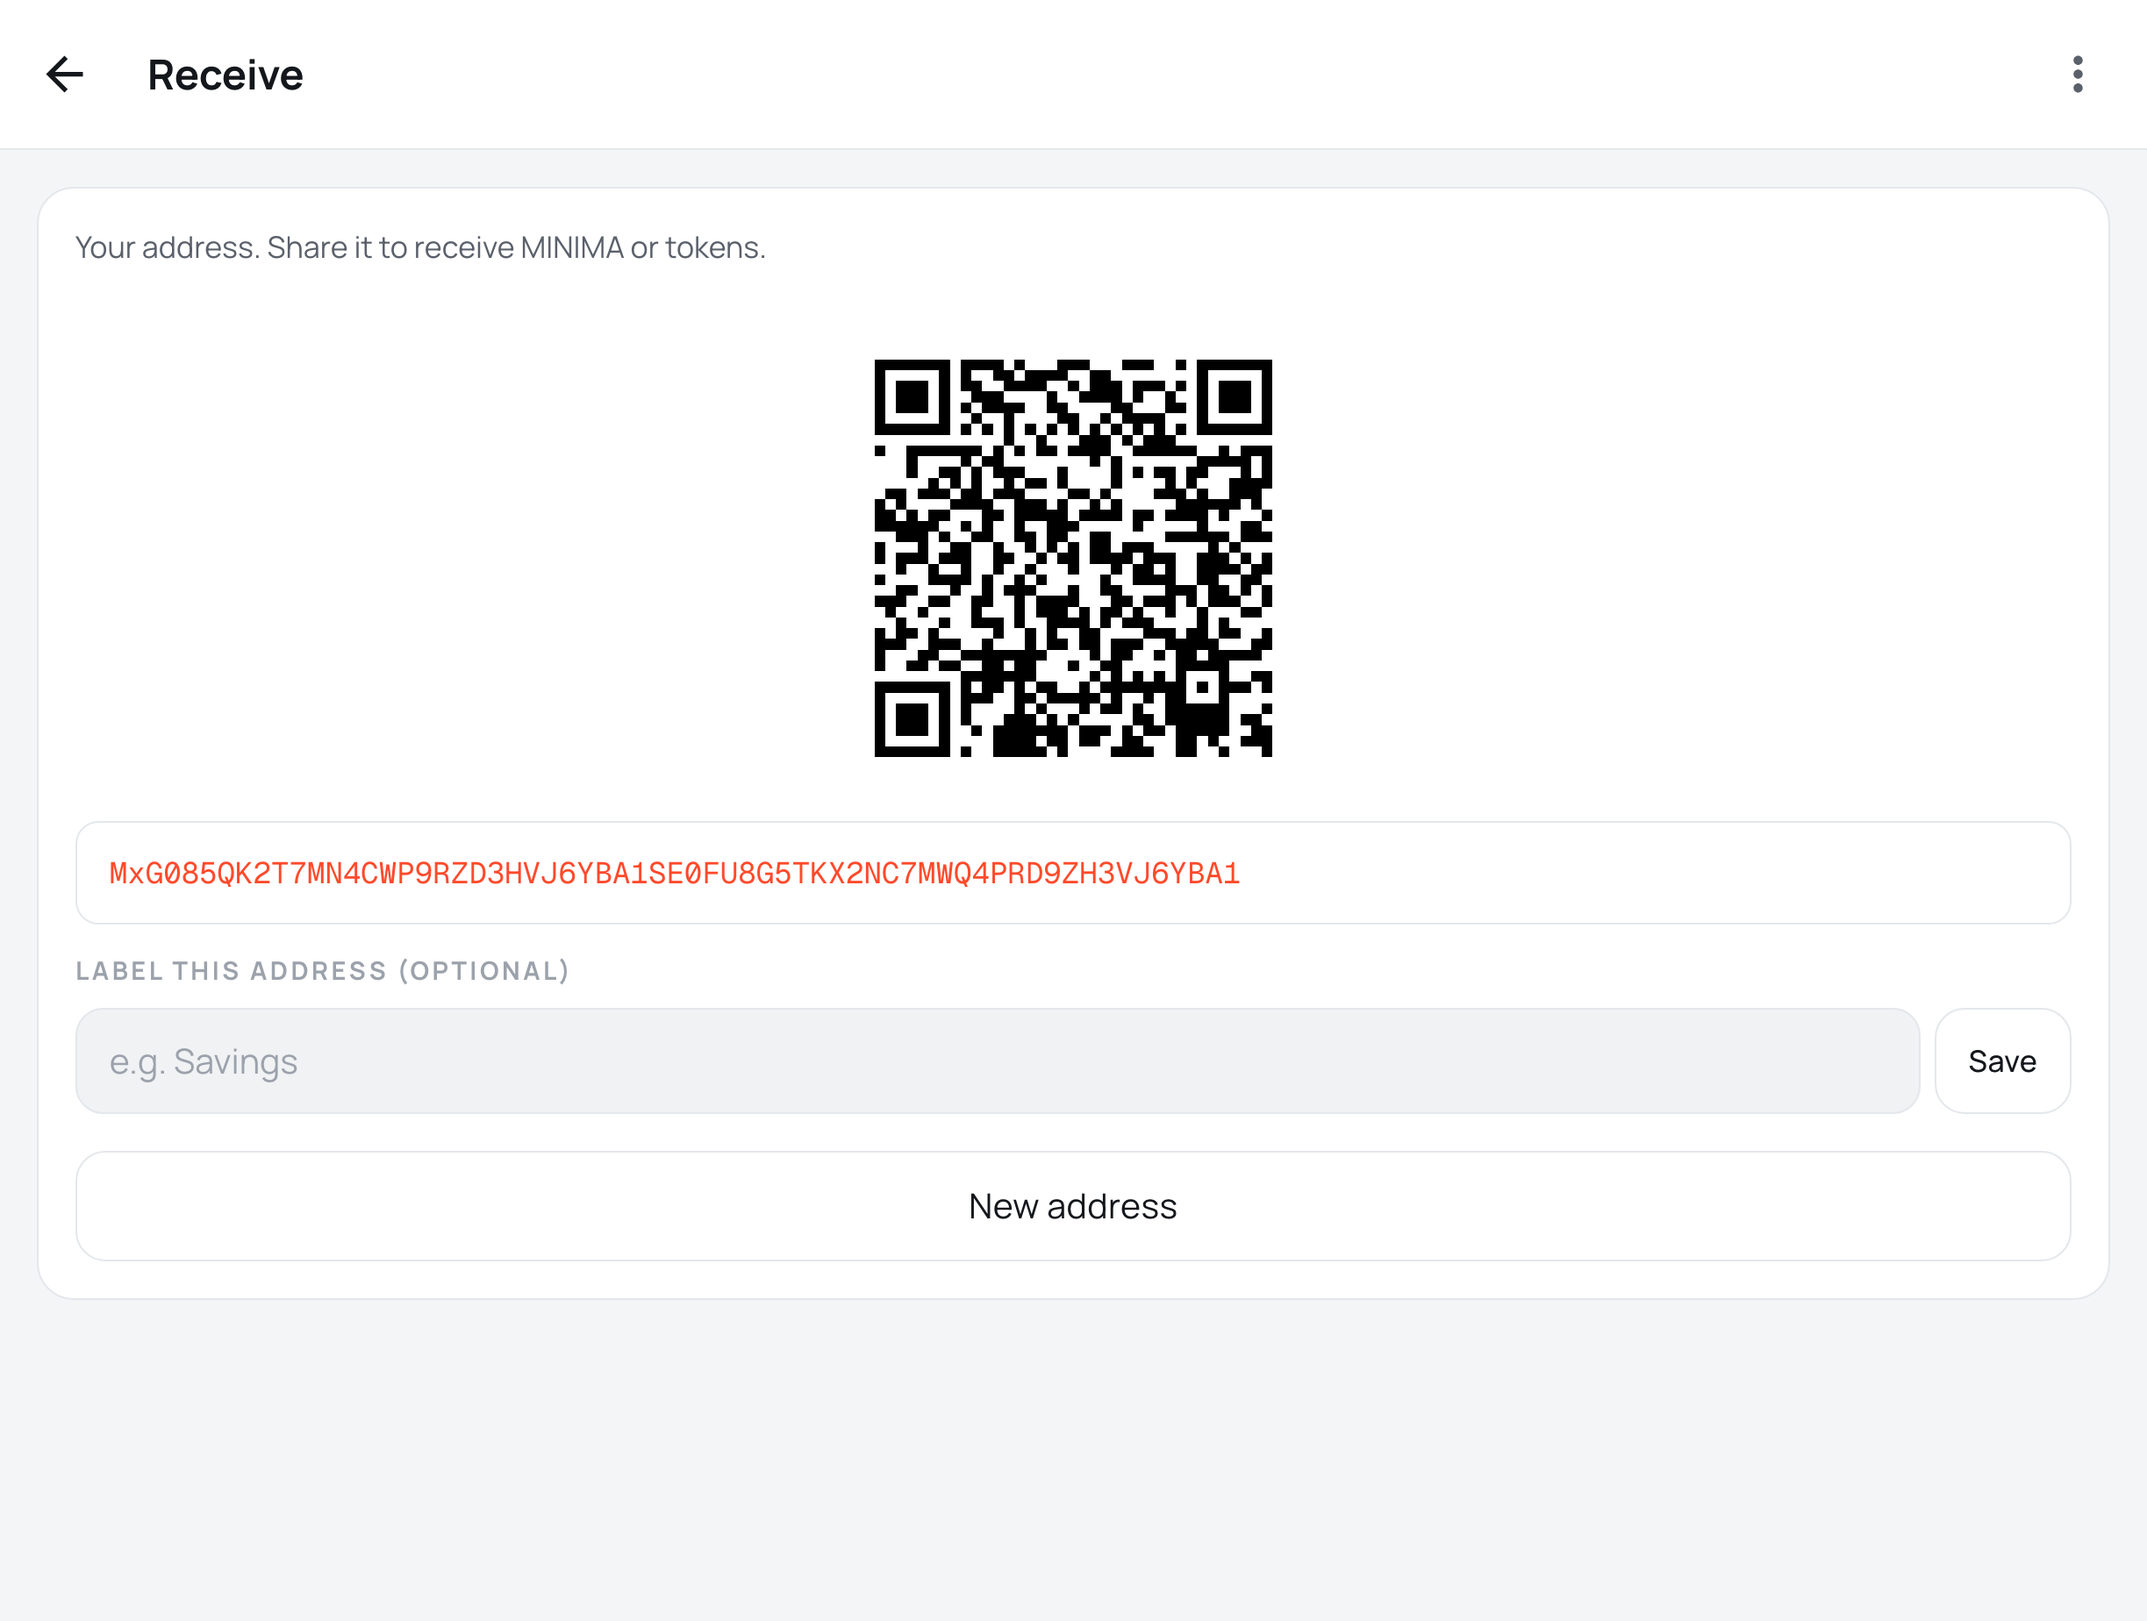
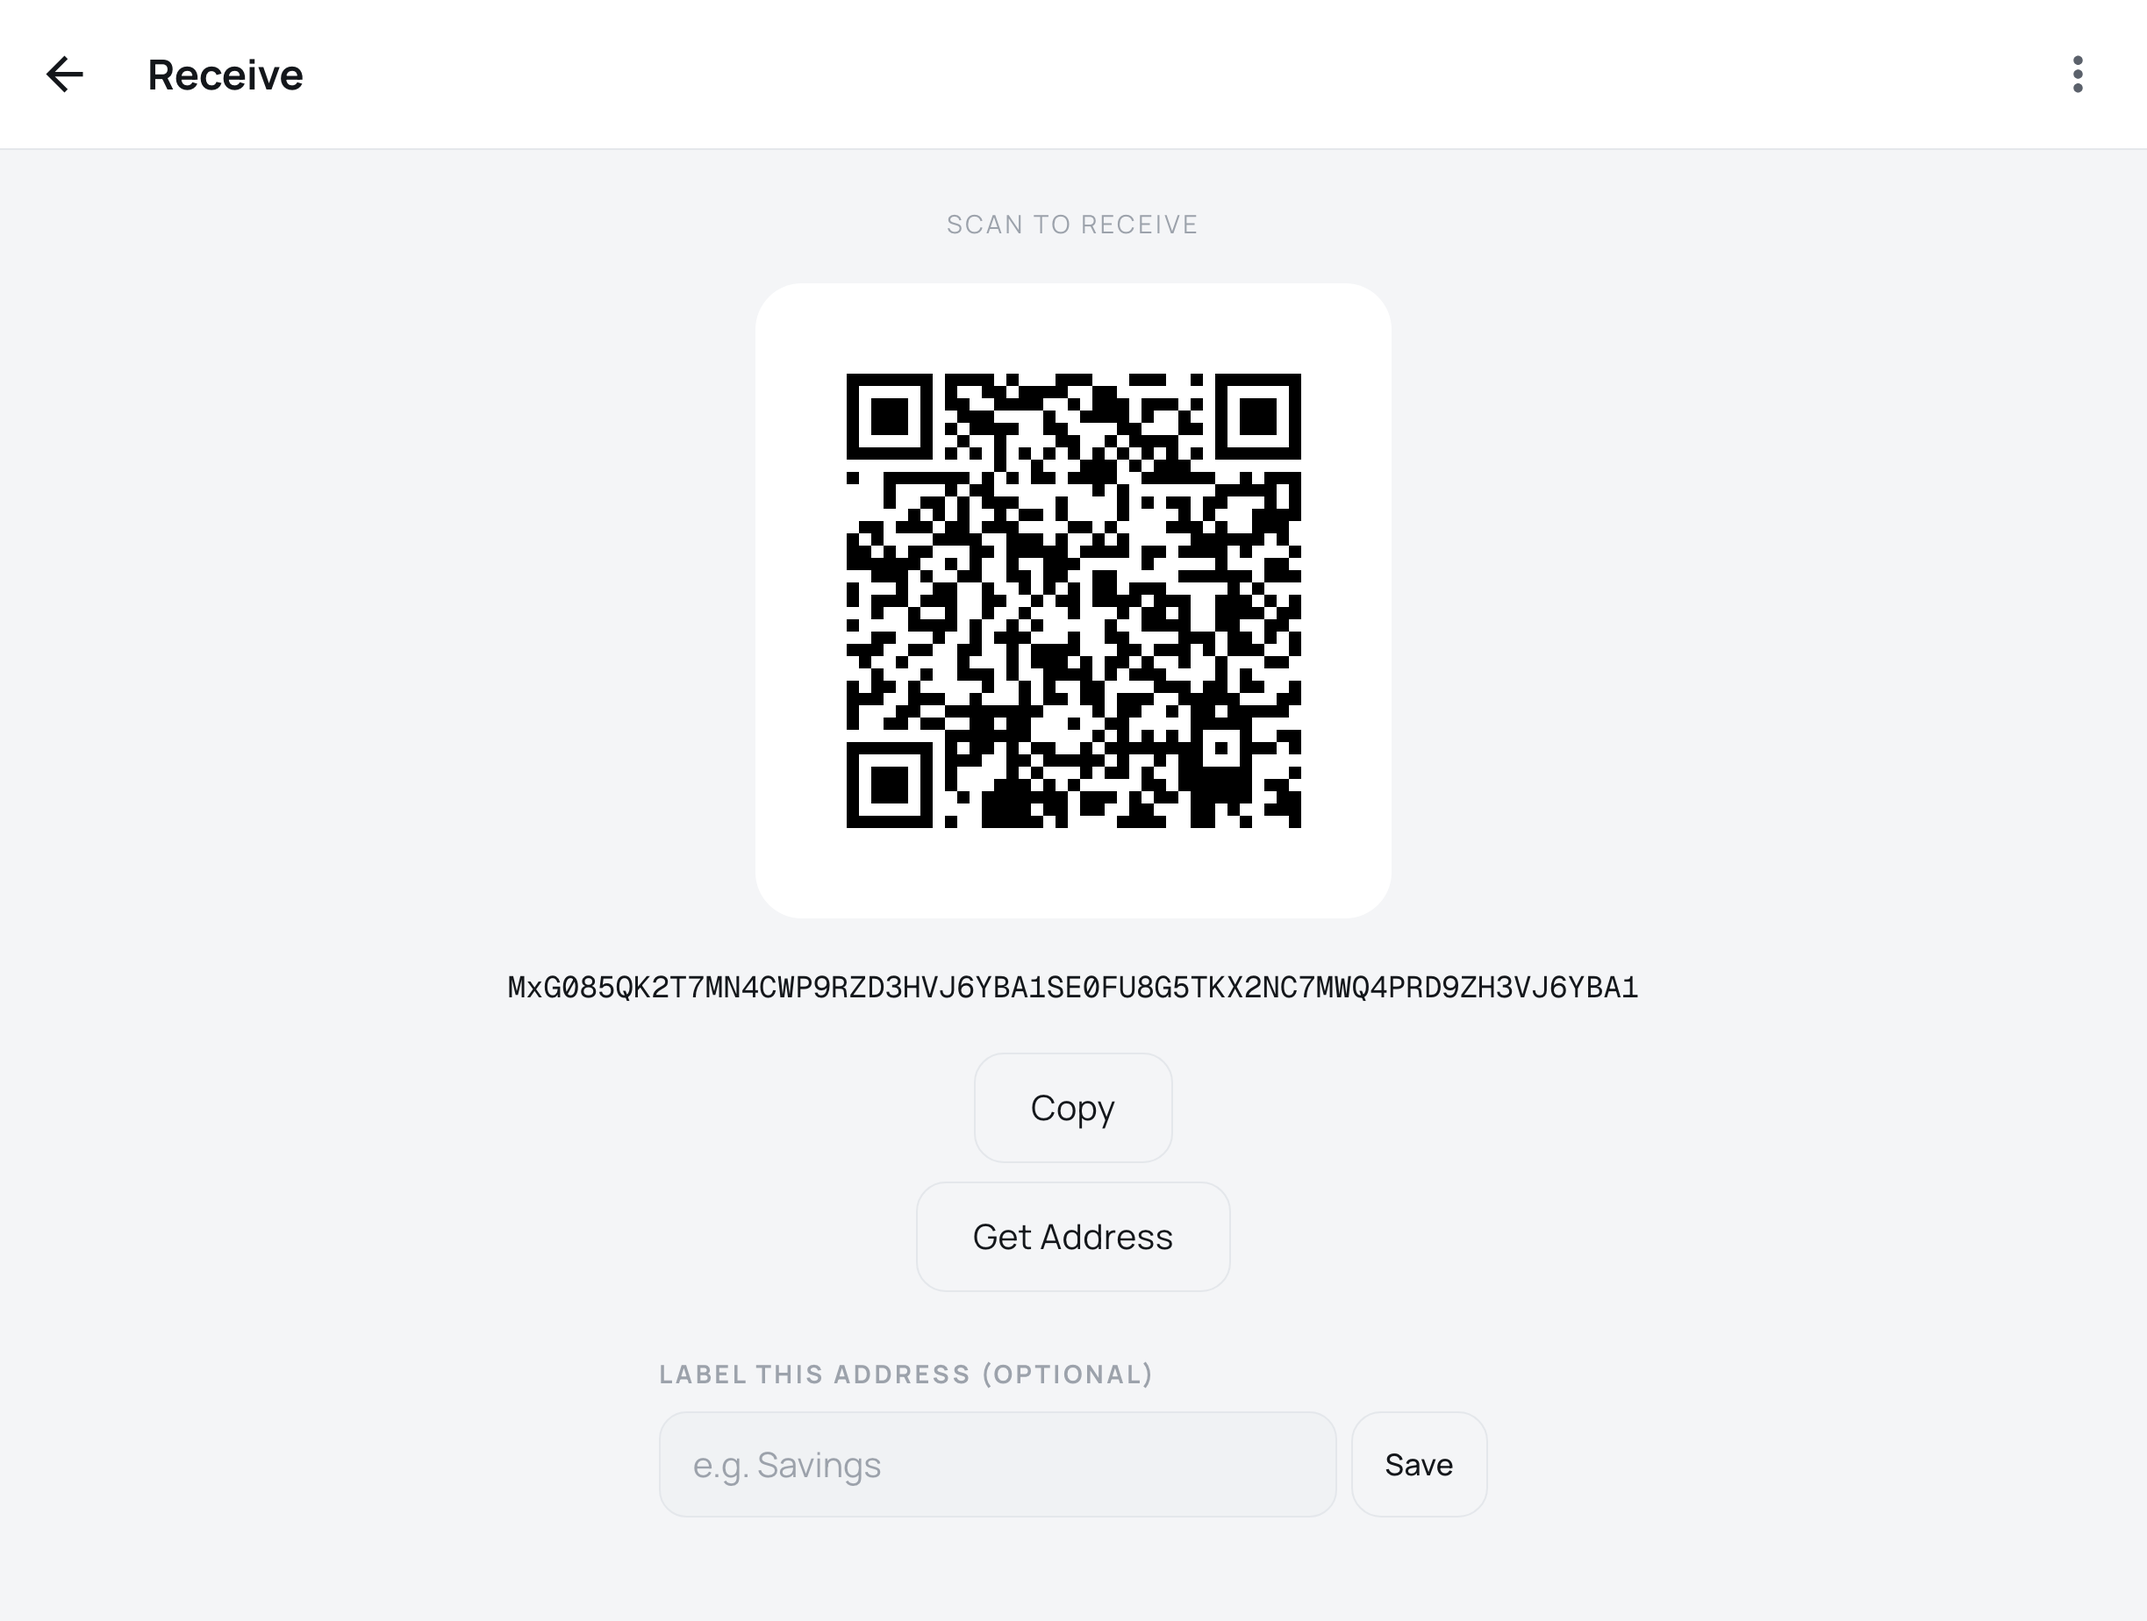
0.18.82: Receive — the phone's screen (Scan to receive, QR card, whole address, Copy, Get Address); the button runs getaddress and no longer makes the node mint a key with newaddress on every press; the label field is kept below
Claude-Session: https://claude.ai/code/session_01P3zos5bMGMNjR4T6fhfPNh

diff --git a/renderer/app.js b/renderer/app.js
@@ -680,7 +680,7 @@ const NO_FIGURE = "–";
 function resetWalletFigures() {
   el("walTotal").textContent = NO_FIGURE; WAL_MINIMA = null; paintWalBreakdown();
   el("faucetBody").innerHTML = "";
-  FOOT_KEYS = null; FOOT_KEYS_AT = 0; NODE_DASH = {}; NODE_DASH_AT = 0; BAL_BY_TID = {};
+  FOOT_KEYS = null; FOOT_KEYS_AT = 0; NODE_DASH = {}; NODE_DASH_AT = 0; BAL_BY_TID = {}; RECV_ADDR = null;
 }
 function waitHtml() { return nodeState === "stopped" ? `<div class="empty">The node is stopped.</div>` : `<div class="spin">Waiting for the node…</div>`; }
 function openMenu() { el("moreMenu").hidden = false; el("moreBtn").setAttribute("aria-expanded", "true"); const f = el("moreMenu").querySelector(".menu__item:not([hidden])"); if (f) f.focus(); }
@@ -1447,25 +1447,38 @@ function splitDialog(tok, name) {
   };
 }
 
-// ---- Receive ---------------------------------------------------------------
+// ---- Receive (Pandamonium's ReceiveView) -----------------------------------
+// "Get Address" asks the node for one of the wallet's existing default addresses (`getaddress`), as the phone
+// does. It used to run `newaddress`, which made the node create and store a new key on every press.
+let RECV_ADDR = null;        // the address on show; kept while the app runs, as the phone keeps it between visits
 async function renderReceive() {
-  const addrEl = el("recvAddr");
-  if (!running) { addrEl.textContent = "waiting for node…"; return; }
+  el("recvCopy").onclick = () => { if (RECV_ADDR) copy(RECV_ADDR); };
+  el("recvGet").onclick = getRecvAddress;
+  if (!running) {
+    RECV_ADDR = null; drawQR(""); el("recvLabelBox").innerHTML = "";
+    el("recvAddr").textContent = nodeState === "stopped" ? "The node is stopped." : "Waiting for the node…";
+    return;
+  }
+  if (RECV_ADDR) setRecv(RECV_ADDR); else await getRecvAddress();
+}
+async function getRecvAddress() {
+  const btn = el("recvGet"); btn.disabled = true;
   const r = await tryCmd("getaddress");
-  setRecv((r && (r.miniaddress || r.address)) || "unavailable");
-  el("newAddrBtn").onclick = async () => { const n = await tryCmd("newaddress"); if (n) { setRecv(n.miniaddress || n.address); toast("New address ✓", "ok"); } };
+  btn.disabled = false;
+  const addr = r && (r.miniaddress || r.address);
+  if (addr) setRecv(addr);
+  else if (RECV_ADDR) toast("The node did not give an address. The one shown is still yours.", "err");
+  else el("recvAddr").textContent = "The address could not be read. Press Get Address to try again.";
 }
 function setRecv(addr) {
-  const addrEl = el("recvAddr");
-  addrEl.textContent = addr; addrEl.onclick = () => copy(addr);
+  RECV_ADDR = addr;
+  el("recvAddr").textContent = addr;
   drawQR(addr);
   renderRecvLabel(addr);
 }
+// The desktop's own addition, under the phone's layout: a name for this address, shown in History and its exports.
 function renderRecvLabel(addr) {
-  const btn = el("newAddrBtn");
-  let box = el("recvLabelBox");
-  if (!box) { box = document.createElement("div"); box.id = "recvLabelBox"; box.style.marginTop = "10px"; btn.parentNode.insertBefore(box, btn); }
-  box.innerHTML = `<div class="field__label">Label this address (optional)</div>
+  el("recvLabelBox").innerHTML = `<label class="field__label" for="recvLabelIn">Label this address (optional)</label>
     <div class="seg"><input class="field__input" id="recvLabelIn" placeholder="e.g. Savings" value="${esc(labelFor(addr))}" />
       <button class="btn btn--outline btn--sm" id="recvLabelSave">Save</button></div>`;
   el("recvLabelSave").onclick = async () => {
@@ -1479,7 +1492,7 @@ function renderRecvLabel(addr) {
 function drawQR(text) {
   const host = el("qr"); host.innerHTML = "";
   if (!text || text.indexOf("0x") === 0 && text.length < 5 || typeof qrcode === "undefined") return;
-  try { const qr = qrcode(0, "M"); qr.addData(text); qr.make(); host.innerHTML = qr.createImgTag(5, 6); }
+  try { const qr = qrcode(0, "M"); qr.addData(text); qr.make(); host.innerHTML = qr.createImgTag(6, 24); host.querySelector("img").alt = "Receive QR code"; }
   catch (e) { /* address too long for one QR — the copyable text still works */ }
 }
 

diff --git a/renderer/app.css b/renderer/app.css
@@ -2,8 +2,6 @@
 html, body { height: 100%; }
 body { margin: 0; background: var(--bg); color: var(--text); overflow: hidden; }
 
-.qrbox { display: flex; justify-content: center; padding: 10px 0 14px; }
-.qrbox img { width: 200px; height: 200px; image-rendering: pixelated; border-radius: 8px; background: #fff; padding: 8px; }
 
 .logbox { max-height: 240px; overflow-y: auto; font-family: var(--mono); font-size: 11px;
   color: var(--dim); white-space: pre-wrap; word-break: break-all; margin: 6px 0 0; }
@@ -38,9 +36,9 @@ body { margin: 0; background: var(--bg); color: var(--text); overflow: hidden; }
 
 /* Copyable address / seed — never overflow */
 .addrbox { border-radius: 10px; }
-#recvAddr, #setAddr, #setSeed { font-family: var(--mono); font-size: 13px; color: var(--accent);
+#setAddr, #setSeed { font-family: var(--mono); font-size: 13px; color: var(--accent);
   word-break: break-all; overflow-wrap: anywhere; cursor: pointer; line-height: 1.5; }
-#recvAddr:hover, #setAddr:hover { border-color: var(--accent); }
+#setAddr:hover { border-color: var(--accent); }
 
 /* Terminal + Logs — fill the available height */
 #view-terminal.view--active, #view-logs.view--active { display: flex; flex-direction: column; height: 100%; }
@@ -173,7 +171,7 @@ label.prow input[type="checkbox"] { margin-right: 8px; vertical-align: baseline;
 
 
 /* Identifiers, hashes and node output stay monospace (the phone's MonoBlock); everything else is Manrope. */
-.tokd-id, .hist-dim, .logbox, .termout, .logsout, .addrbox__addr, #recvAddr, #setAddr, #setSeed { font-family: var(--mono); }
+.tokd-id, .hist-dim, .logbox, .termout, .logsout, .addrbox__addr, #setAddr, #setSeed { font-family: var(--mono); }
 
 /* KV rows / fields / chips / inputs — hairline + orange focus */
 .field__input { border-radius: var(--radius); }
@@ -192,7 +190,7 @@ label.prow input[type="checkbox"] { margin-right: 8px; vertical-align: baseline;
 
 
 /* Address / seed — orange mono */
-#recvAddr, #setAddr, #setSeed, .addrbox__addr { color: var(--accent); }
+#setAddr, #setSeed, .addrbox__addr { color: var(--accent); }
 
 
 /* Empty / loading — outline mark, slowly turning */

diff --git a/renderer/shell.css b/renderer/shell.css
@@ -199,6 +199,19 @@ img.tray__ic[src$="minima-mark.svg"] { background: #fff; padding: 6px; }
   font-variant-numeric: tabular-nums; overflow-wrap: anywhere; }
 #balList .bal-breakdown { margin-top: 3px; font: 400 11px/15px var(--sans); color: var(--dim2); white-space: pre-wrap; }
 
+/* ---------------------------------------------------------------- Receive (view_wallet_receive) */
+#view-receive { padding: 24px; }
+.recv { display: flex; flex-direction: column; align-items: center; }
+.recv > .eyebrow { margin-bottom: 18px; line-height: 16px; }
+.recv__qr { width: 276px; height: 276px; padding: 18px; border-radius: 20px; background: #FFFFFF; }
+.recv__qr img { display: block; width: 240px; height: 240px; image-rendering: pixelated; }
+.recv__addr { align-self: stretch; margin-top: 22px; text-align: center; font: 400 13px/1.2 var(--mono); color: var(--text);
+  overflow-wrap: anywhere; word-break: break-all; user-select: text; min-height: 16px; }
+.recv > .btn { min-height: 48px; padding: 0 24px; font-size: 15px; font-weight: 400; margin-top: 8px; }
+.recv > #recvCopy { margin-top: 20px; }
+.recv__label { width: 100%; max-width: 360px; margin-top: 28px; }
+.recv__label:empty { display: none; }
+
 /* ---------------------------------------------------------------- dialogs (the phone's AlertDialog: title, body, text buttons) */
 .overlay--dlg { padding: 24px; }
 .dlg { width: 100%; max-width: 560px; max-height: calc(100vh - 48px); display: flex; flex-direction: column; overflow: hidden;

diff --git a/renderer/index.html b/renderer/index.html
@@ -79,11 +79,13 @@
       </section>
 
       <section class="view" id="view-receive">
-        <div class="card">
-          <div class="view__desc">Your address. Share it to receive MINIMA or tokens.</div>
-          <div id="qr" class="qrbox"></div>
-          <div class="addrbox" id="recvAddr" title="Click to copy">…</div>
-          <button class="btn btn--outline btn--full" id="newAddrBtn">New address</button>
+        <div class="recv">
+          <div class="eyebrow">Scan to receive</div>
+          <div class="recv__qr" id="qr"></div>
+          <div class="recv__addr" id="recvAddr"></div>
+          <button class="btn btn--outline" id="recvCopy">Copy</button>
+          <button class="btn btn--outline" id="recvGet">Get Address</button>
+          <div class="recv__label" id="recvLabelBox"></div>
         </div>
       </section>
 

diff --git a/scripts/dev-preview/build.js b/scripts/dev-preview/build.js
@@ -38,7 +38,7 @@ if (process.argv.includes("--shots")) {
     ["coins-split", "view=balances&tray=0&dlg=split"],
     ["apps", "view=apps&tray=0"], ["node", "view=node&tray=0"],
     ["tray", "view=node&tray=1"], ["overflow", "view=balances&tray=0&menu=1"], ["ethwallet", "view=ethwallet&tray=0"],
-    ["mail", "view=mail&tray=1"], ["receive", "view=receive&tray=0"],
+    ["mail", "view=mail&tray=1"], ["receive", "view=receive&tray=0"], ["receive-1440x900", "view=receive&tray=0", 1440, 900, 1], ["receive-stopped", "view=receive&tray=0&state=stopped"],
     ["stopped", "view=balances&tray=0&state=stopped"], ["shutdown", "view=balances&tray=0&shutdown=1"], ["apps-hidden", "view=apps&tray=0&hidden=mail"],
     ["wide-1440x900", "view=balances&tray=1", 1440, 900, 1], ["narrow-680", "view=balances&tray=1", 680, 704, 2]
   ];

diff --git a/scripts/dev-preview/stub.js b/scripts/dev-preview/stub.js
@@ -47,7 +47,6 @@
       return set.filter(x => !/sendable:true/.test(c) || !x._locked).map(x => { const o = Object.assign({}, x); delete o._locked; return o; });
     },
     getaddress: () => ({ address: PK("D1"), miniaddress: ADDR }),
-    newaddress: () => ({ address: PK("D2"), miniaddress: ADDR }),
     keys: () => keys,
     scripts: () => [],
     peers: () => ({ peerslist: "203.0.113.24:9001,198.51.100.77:9001" }),

diff --git a/CHANGELOG.md b/CHANGELOG.md
@@ -7,6 +7,14 @@ matching [GitHub Release](../../releases).
 
 ---
 
+## [0.18.82] — Receive: the phone's screen; Get Address no longer mints a key
+
+- **Receive no longer creates a key on every press.** The button ran the node's `newaddress`, which makes the node generate and store a new key each time it is pressed. It is now the phone's "Get Address" and runs `getaddress`: the node hands back one of the wallet's existing default addresses and creates nothing. Coins sent to addresses made earlier with the old button are unaffected: those keys stay in the wallet. Nothing else in the app used `newaddress` from this screen; address labels are keyed by the address shown and work as before.
+- The screen is the phone's: "Scan to receive", the QR code on its white card, the whole address beneath it, Copy, Get Address. The address is kept while the app runs, so coming back to Receive shows the same one until Get Address is pressed; it is dropped when the node stops or a seed is restored.
+- The desktop's "Label this address" field is kept, below the phone's layout.
+- A failed address read says so and shows no QR code; before, it showed the word "unavailable" as if it were an address, with a copy action on it.
+- `scripts/wallet-money-test.cjs` pins it: opening Receive and pressing Get Address issue `getaddress` only, and no code in the renderer issues `newaddress`.
+
 ## [0.18.81] — Wallet: token rows reorder
 
 - Token rows on the Wallet tab can be put in any order: drag a row, or focus it and press Alt+Up or Alt+Down (Up and Down alone walk the rows). Minima stays first. The order is saved on this computer and is replayed as the phone does it: tokens still held keep their saved place, a token received since goes to the end, and a token no longer held drops out.

diff --git a/docs/PANDAMONIUM_DESKTOP_PLAN.md b/docs/PANDAMONIUM_DESKTOP_PLAN.md
@@ -164,6 +164,7 @@ complete. miniMall is kept. Nothing is pushed or released without the owner's wo
 | 0.18.79 | 2a | Wallet tab: "Total balance" with the expand arrow and its breakdown; token rows carry icon, name, amount and the phone's one-line breakdown only (Split / Consolidate off the rows); `scripts/wallet-money-test.cjs` pins the send, split and consolidate command strings and guards from 0.18.78 |
 | 0.18.80 | 2a | Coins dialog (exact figures, every coin with its whole id, LOCKED chips, sum check, Copy token ID) and coin detail (every field with Copy, raw JSON); Split and Consolidate are two buttons in the dialog with their forms and checks unchanged; the Send screen loses its mode switch; the old token page kept behind "Token details" |
 | 0.18.81 | 2a | Token rows reorder by drag or Alt+Up / Alt+Down; Minima pinned; order saved and replayed as the phone's TokenOrder |
+| 0.18.82 | 2a | Receive as the phone (Scan to receive, QR card, whole address, Copy, Get Address); the button runs `getaddress`, not `newaddress` (no new key per press); label field kept below |
 
 Phase 0 change of scope: the data folder is not pinned, because the app is not being renamed (D2).
 Known failures that predate this branch (fail on `origin/master` 0.18.64): `scripts/panels-test.cjs` "overlay sites";
